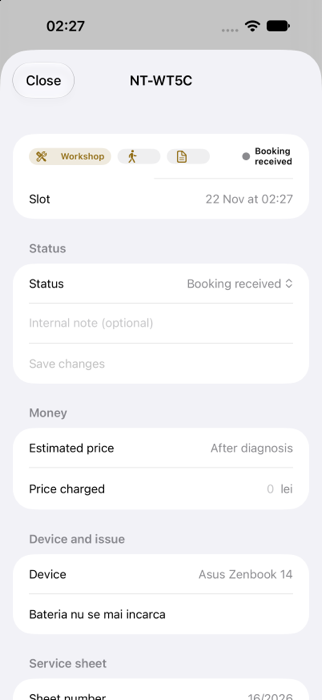
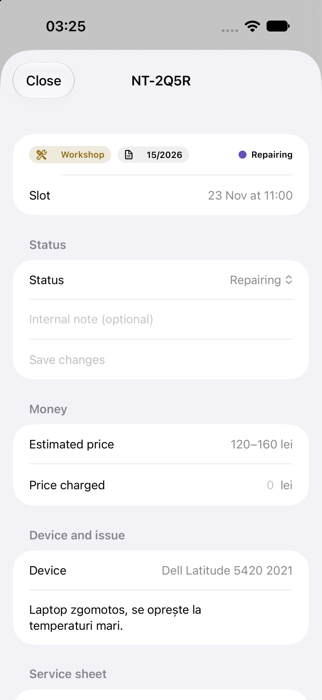
Refresh the screenshots from the fixed build

diff --git a/ios/README.md b/ios/README.md
@@ -137,21 +137,7 @@ Not built yet. Intake photo capture and viewing (the count shows), and push noti
 
 ## Screenshots
 
-`docs/screenshots/` holds simulator captures. `driver.png` shows the route, Navigate and recenter buttons on Liquid Glass. `console-today.png`, `console-schedule.png`, `console-stats.png` and `console-job.png` show the owner console. `customer.png` and `home-icon.png` show the customer lookup and the app icon.
-
-### Signing in against a local backend
-
-Better Auth rejects any call that carries a cookie unless its `Origin` is one it trusts, which is the website's own origin (`BETTER_AUTH_URL`, or `APP_ORIGINS`; in dev that is `http://localhost:5173`). A phone has no page origin, so the app sends one from the build setting `NORGELIS_SITE_ORIGIN`. Without it, sign-in still works, but sign-out answers 403 and the app warns that the server session may still be valid.
-
-```bash
-xcodebuild ... NORGELIS_API_BASE_URL=http://192.168.1.20:8790 NORGELIS_SITE_ORIGIN=http://localhost:5173 build
-```
-
-Both settings are passed on the command line, so a LAN address never enters git.
-
-### Driver location
-
-The driver map asks for location (when in use) the first time it opens. A real phone follows its own GPS during a trip. Only the simulator drives a fake car along the planned route. Sharing the position with the server waits for `POST /api/driver/location` to exist, so nothing is sent today.
+`docs/screenshots/` holds simulator captures. `driver-list.png`, `driver-stop.png` and `driver-trip.png` show the driver panel (stop list, one stop with its X, and a trip with the turn banner and slide to confirm). `sign-in.png` shows sign-in. `console-today.png`, `console-job.png`, `console-schedule.png` and `console-stats.png` show the owner console. `customer.png` and `home-icon.png` show the customer lookup and the app icon.
 
 ## Look and feel
 
